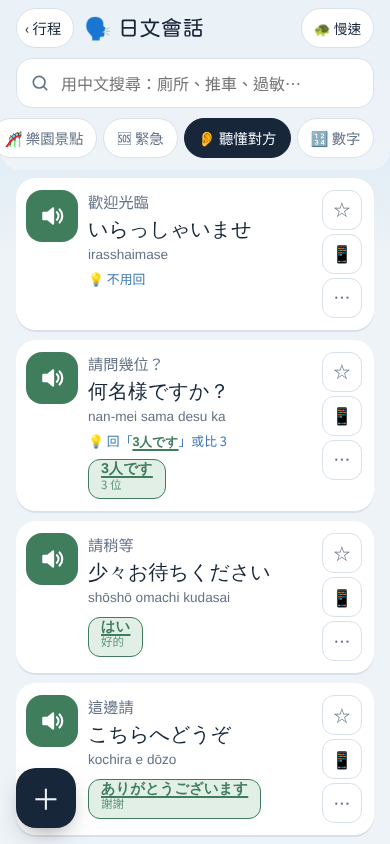
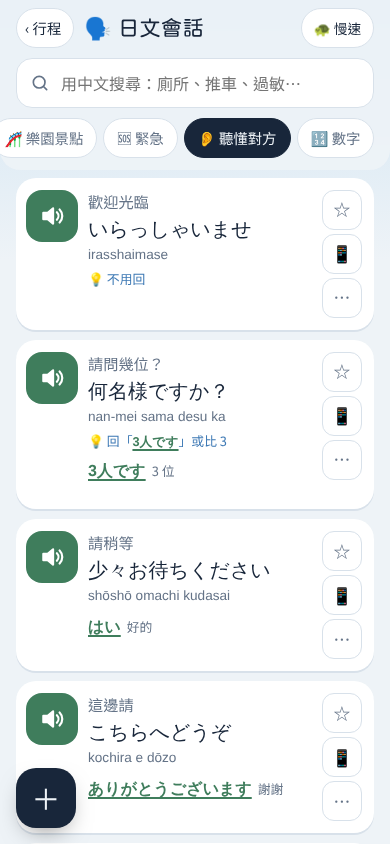
日文會話：發音連結統一為綠色粗體底線文字
Claude-Session: https://claude.ai/code/session_01AL6XxB134ePvGmwNHspuLQ

diff --git a/trip/ja.html b/trip/ja.html
@@ -62,12 +62,12 @@ h1{font-family:var(--f-display);font-weight:400;font-size:1.35rem;margin:0;flex:
 .ja{font-family:var(--f-ja);font-size:1.25rem;line-height:1.4;font-weight:500;word-break:break-word}
 .kana{font-size:.85rem;color:var(--muted);font-family:var(--f-ja)}
 .note{font-size:.8rem;color:var(--sky);margin-top:2px}
-.re{display:flex;flex-wrap:wrap;gap:6px;margin-top:6px}
-.re button{min-height:40px;padding:0 12px;border-radius:12px;border:1px solid var(--forest);background:var(--forest-soft);color:var(--forest);font-size:.9rem;display:flex;flex-direction:column;align-items:flex-start;line-height:1.15;gap:1px}
-.re button small{font-size:.72rem;opacity:.8}
-.re button.on{background:var(--forest);color:#fff}
-.re button b{font-family:var(--f-ja);font-weight:600;text-decoration:underline;text-decoration-thickness:2px;text-underline-offset:3px}
-.lnk{border:0;background:none;padding:0;font:inherit;font-family:var(--f-ja);color:var(--forest);font-weight:600;text-decoration:underline;text-decoration-thickness:2px;text-underline-offset:3px}
+.re{display:flex;flex-wrap:wrap;gap:0 4px;margin-top:4px}
+.re button{border:0;background:none;padding:4px 0;min-height:40px;font-size:1rem;display:inline-flex;align-items:baseline;gap:6px;line-height:1.3;margin-right:12px}
+.re button b{font-family:var(--f-ja);font-weight:700;color:var(--forest);text-decoration:underline;text-decoration-thickness:2px;text-underline-offset:3px}
+.re button small{font-size:.8rem;color:var(--muted)}
+.re button.on b{background:var(--forest-soft);border-radius:4px}
+.lnk{border:0;background:none;padding:0;font:inherit;font-family:var(--f-ja);color:var(--forest);font-weight:700;text-decoration:underline;text-decoration-thickness:2px;text-underline-offset:3px}
 .lnk.on{background:var(--forest-soft);border-radius:4px}
 .side{flex:none;display:flex;flex-direction:column;gap:4px}
 .ic{width:40px;height:40px;border-radius:12px;border:1px solid var(--line);background:transparent;color:var(--muted);display:flex;align-items:center;justify-content:center;font-size:1.05rem}

diff --git a/sw.js b/sw.js
@@ -1,5 +1,5 @@
 // 離線快取：第一次開啟後，頁面與地圖存在手機裡，園區沒網路也能看
-const V = "gp-v22";
+const V = "gp-v23";
 const FILES = ["./", "index.html", "trip/", "trip/index.html", "trip/ja.html", "trip/icon.svg", "trip/icon-180.png",
   "maps/park.webp","maps/north.webp","maps/catroute.webp","maps/south.webp","maps/catall.webp",
   "maps/forest.webp","maps/ebus.webp","maps/east.webp","maps/west.webp","maps/all.webp","maps/lini-go.webp","maps/lini-back.webp","maps/st-fuji.webp","maps/st-park.webp"];
